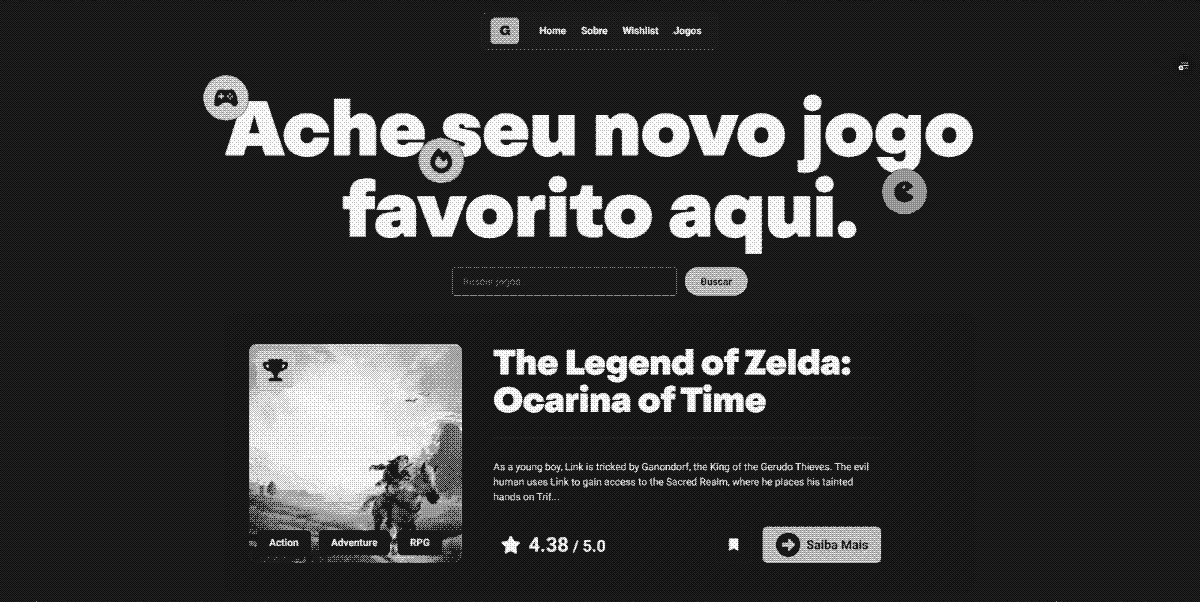
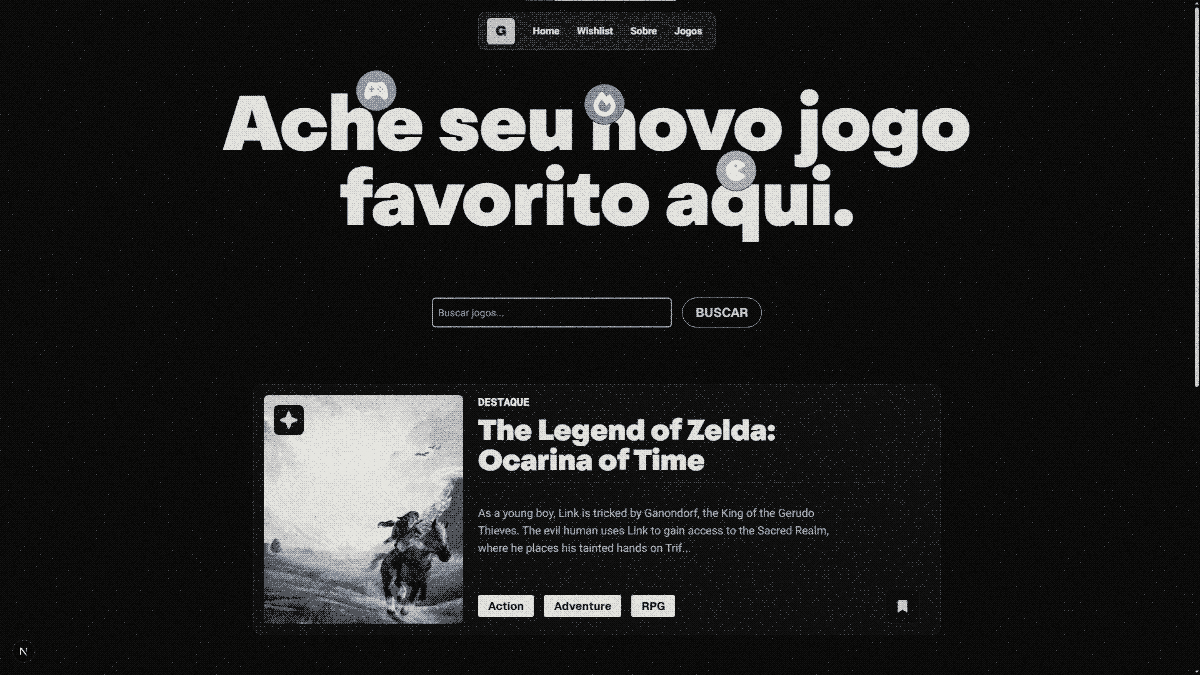
feat: atualiza imagens da galeria

diff --git a/src/app/Projetos/data.js b/src/app/Projetos/data.js
@@ -1,6 +1,11 @@
-import gamescope from "../../../public/gamescope.jpeg";
+import gamescope from "../../../public/gamescope.png";
 import portfolio from "../../../public/portfolio.jpeg";
 import efeitoPortfolio from "../../../public/efeitoPortfolio.png";
+import gs02 from "../../../public/gs02.png";
+import gs03 from "../../../public/gs03.png";
+import gs04 from "../../../public/gs04.png";
+import pt01 from "../../../public/pt01.png";
+import pt02 from "../../../public/pt02.png";
 import efeitogamescope from "../../../public/efeitogamescope.png";
 import diario from "../../../public/diario.jpeg";
 import efeitodiario from "../../../public/efeitodiario.png";
@@ -22,6 +27,7 @@ export const Works = [
       "Os resultados da API são filtrados conforme o usuário digita, com debounce para evitar excesso de requisições e os jogos favoritados são salvos via localStorage, então o usuário mantém sua lista mesmo sem criar conta, e ela persiste entre sessões no mesmo navegador. ",
     website: "https://gamescope-zeta.vercel.app/",
     github: "https://github.com/caadu999/gamescope",
+    img: [gs02, gs03, gs04],
   },
 
   {
@@ -41,6 +47,7 @@ export const Works = [
       "Desenvolvi este portfólio para apresentar meus projetos e habilidades priorizando a boa experiência em mobile, já que grande parte dos acessos hoje vem do celular",
     website: "https://caducodedev.vercel.app/",
     github: "https://github.com/caadu999/portfoliov1",
+    img: [portfolio, pt01, pt02],
   },
   {
     slug: "dbordo",
@@ -58,5 +65,6 @@ export const Works = [
       "Nesse projeto utilizo LocalStorage para persistência dos dados e Service Workers para oferecer funcionamento offline e instalação como aplicativo, proporcionando uma experiência mais próxima de uma aplicação nativa.",
     website: "https://diario-a-bordo.vercel.app/",
     github: "https://github.com/caadu999/diarioABordo",
+    img: [diario, diario, diario],
   },
 ];

diff --git a/src/app/Projetos/[slug]/Detalhe/index.jsx b/src/app/Projetos/[slug]/Detalhe/index.jsx
@@ -34,7 +34,7 @@ export default function DetalheCard({ projeto }) {
           transition={{ duration: 1.2, ease: "easeOut" }}
         >
           <Image
-            src={projeto.src}
+            src={projeto.img[0]}
             alt={projeto.title}
             fill
             loading="lazy"
@@ -49,7 +49,7 @@ export default function DetalheCard({ projeto }) {
           className={styles.image}
         >
           <Image
-            src={projeto.src}
+            src={projeto.img[1]}
             alt={projeto.title}
             fill
             loading="lazy"
@@ -64,7 +64,7 @@ export default function DetalheCard({ projeto }) {
           transition={{ duration: 1.2, ease: "easeOut" }}
         >
           <Image
-            src={projeto.src}
+            src={projeto.img[2]}
             alt={projeto.title}
             fill
             loading="lazy"

diff --git a/src/app/Projetos/[slug]/page.jsx b/src/app/Projetos/[slug]/page.jsx
@@ -6,10 +6,7 @@ import Image from "next/image";
 import Link from "next/link";
 import { MdArrowOutward } from "react-icons/md";
 import DetalheCard from "./Detalhe";
-
 import { geist } from "../../../../public/fonts/fonts";
-
-
 
 export async function generateMetadata({ params }) {
   const { slug } = await params;
@@ -22,7 +19,6 @@ export async function generateMetadata({ params }) {
 }
 
 export default async function ProjetoPage({ params }) {
- 
   const { slug } = await params;
 
   const projeto = Works.find((p) => p.slug === slug);

diff --git a/src/app/Projetos/_Card/index.jsx b/src/app/Projetos/_Card/index.jsx
@@ -1,6 +1,6 @@
 import Image from "next/image";
 import styles from "@/app/Projetos/_Card/card.module.scss";
-import { lazy, useState, useRef } from "react";
+import { useState, useRef } from "react";
 import { motion } from "framer-motion";
 
 import { MdArrowOutward } from "react-icons/md";

diff --git a/src/app/page.jsx b/src/app/page.jsx
@@ -1,6 +1,6 @@
 "use client";
 import styles from "@/app/page.module.css";
-import { useEffect, useRef } from "react";
+
 
 import Titulo from "@/components/TituloHome";
 import Sobre from "@/components/Sobre";
